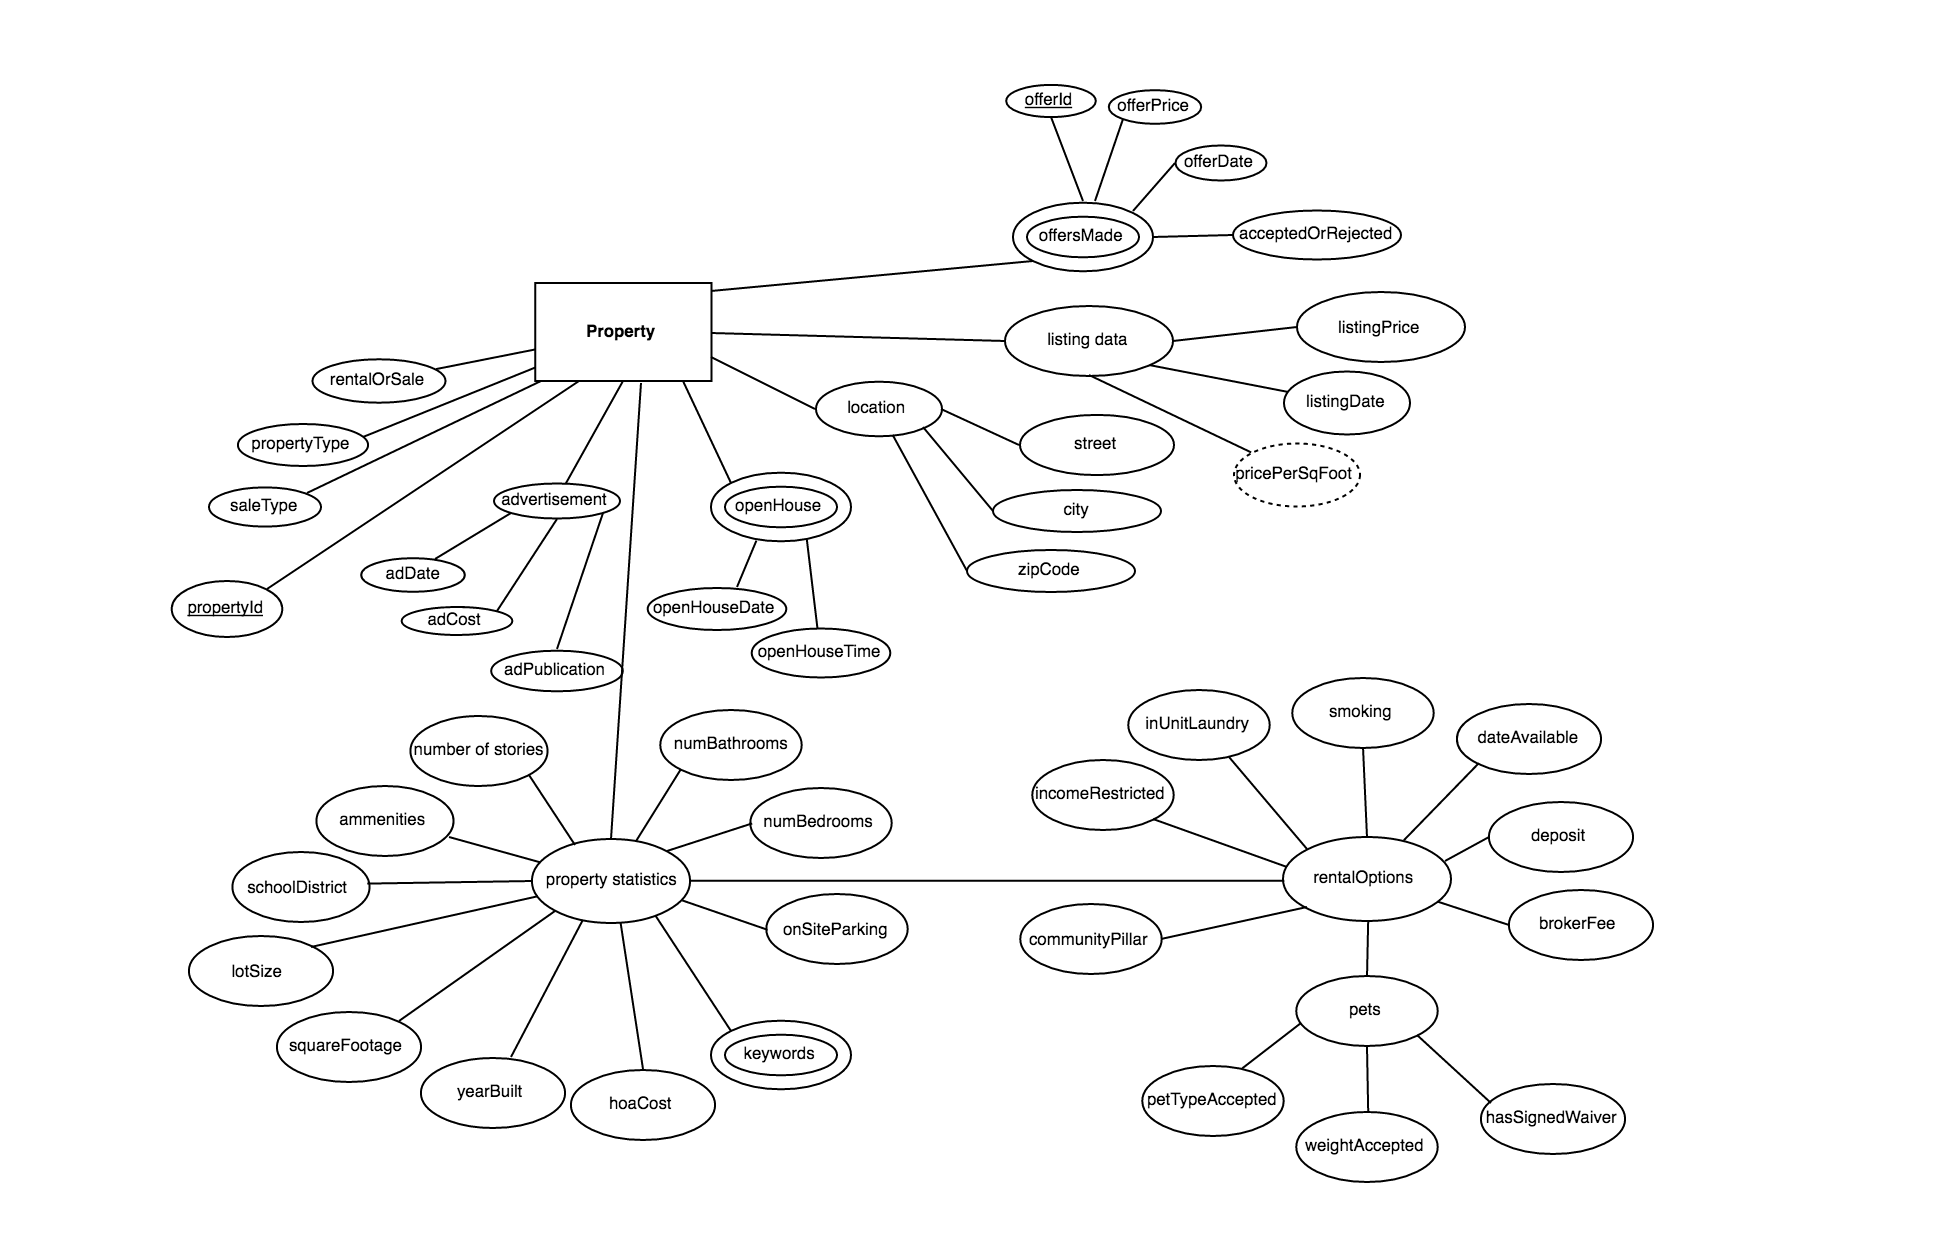
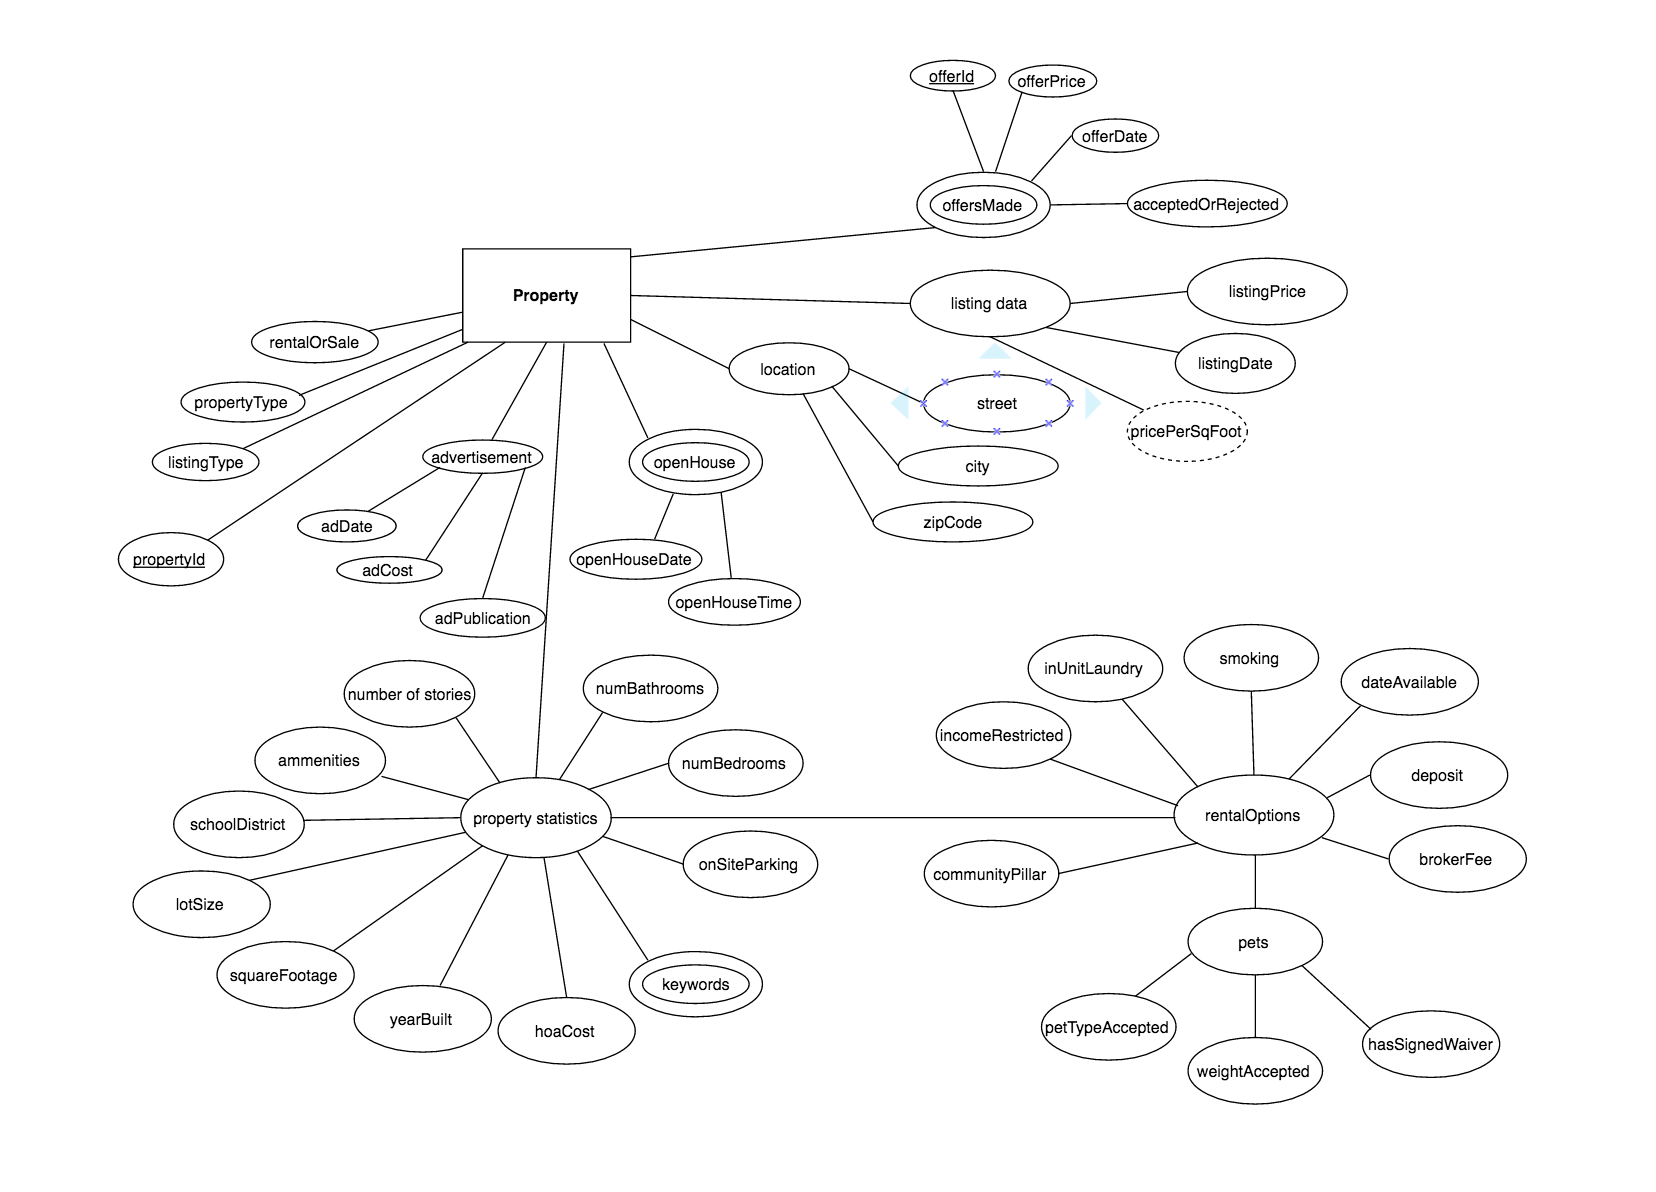
updated schema and nd property saleType attribute

Changed region(s): [[0.0616, 0.0621, 0.9239, 0.9002], [0.5851, 0.776, 0.8931, 0.9312], [0.2156, 0.776, 0.2464, 0.807]]

diff --git a/website/index.html b/website/index.html
@@ -267,14 +267,23 @@
     <div id="relationalSchema" class="container-fluid db-section">
       <h2>Relational Schema</h2>
       <div id="schemaItems">
-        <p>StaffMember(<strong>StaffId</strong>, Name, Email, Phone, Address, AgentType)</p>
+        <p>StaffMember(<strong>StaffId</strong>, Name, Email, rating, salary, <em>branchId</em>)</p>
+        <p>staff_phone(<strong><em>StaffId</em></strong>, phone)</p>
+        <p>staff_address(<strong><em>StaffId</em></strong>, street, city, zipCode)</p>
+        <p>sellingAgent<strong><em>StaffId</em></strong>, sellingAgentCommission)</p>
+        <p>listingAgent<strong><em>StaffId</em></strong>, listingAgentCommission)</p>
         <p>listedBy(<strong><em>StaffId</em></strong>, <strong><em>PropertyId</em></strong>)</p>
-        <p>Property(<strong>propertyId</strong>, listingDate, propertyType, listingType, listingPrice, numBedrooms, squareFootage, adDate, adCost, adPublication, inspectionDate, zipCode, city, street)</p>
+        <p>Property(<strong>propertyId</strong>, rentalOrSale, propertyType, listingType, adDate, adCost, adPublication, street, city, zipCode, listingPrice, listingDate, pricePerSqFoot, numStories, amenities, schoolDistrict, lotSize, squareFootage, yearBuilt, hoaCost, onSiteParking, numBedrooms, numBathrooms, communityPillar, petTypeAccepted, weightAccepted, hasSignedWaiver, brokerFee, deposit, dateAvailable, smoking, inUnitLaundry, incomeRestricted, <em>branchId</em>)</p>
+        <p>property_stats_keywords(<strong><em>propertyId</em></strong>, keyword)</p>
+        <p>property_open_house(<strong><em>propertyId</em></strong>, openHouseDate, openHouseTime)</p>
+        <p>property_offers_made(<strong><em>propertyId</em></strong>, <strong>offerId</strong>, offerPrice, offerDate, acceptedOrRejected)</p>
         <p>owns(<strong><em>clientId</em></strong>, <strong><em>PropertyId</em></strong>)</p>
-        <p>client(<strong>clientId</strong>, phone, address, name, email, ownerType, rentalContract, location, amenities, maxPrice, minPrice)</p>
-        <p>banksWith(<strong><em>clientId</em></strong>, <strong><em>branchId</em></strong>)</p>
+        <p>client(<strong>clientId</strong>, email, name, street, city, zipCode)</p>
+        <p>client_type(<strong><em>clientId</em></strong>, ownerType, rentalContract, amenities, minPrice, maxPrice)</p>
+        <p>client_buyer_location(<strong><em>clientId</em></strong>, street, city, zipCode)</p>
+        <p>client_phone(<strong><em>clientId</em></strong>, phone)</p>
+        <p>hasA(<strong><em>clientId</em></strong>, <strong><em>branchId</em></strong>)</p>
         <p>branch(<strong>branch</strong>, location)</p>
-        <p>handles(<strong><em>branchId</em></strong>, <strong><em>PropertyId</em></strong>)</p>
 
         <table class="table table-responsive table-hover table-striped">
           <h4>StaffMember Types:</h4>
@@ -323,7 +332,7 @@
           <tr><td>String propertyId</td><td>first character is letter 'p' (for property), rest of characters are numbers (ten characters)</td></tr>
           <tr><td>Char rentalOrSale</td><td>'r' for rental; 's' for sale</td></tr>
           <tr><td>String propertyType</td><td>set list of property types {House, Apartments, Condominum, Townhomes, Manufactured, Lots}</td></tr>
-          <tr><td>String saleType</td><td>???</td></tr>
+          <tr><td>String listingType</td><td>set list of listing types {rental, sale}</td></tr>
           <tr><td>Date adDate</td><td>ISO Date (YYYY-MM-DD)</td></tr>
           <tr><td>Double adCost</td><td>ad cost represented as a dollar value (dollars.cents)</td></tr>
           <tr><td>String adPublication</td><td>publication or website name</td></tr>
